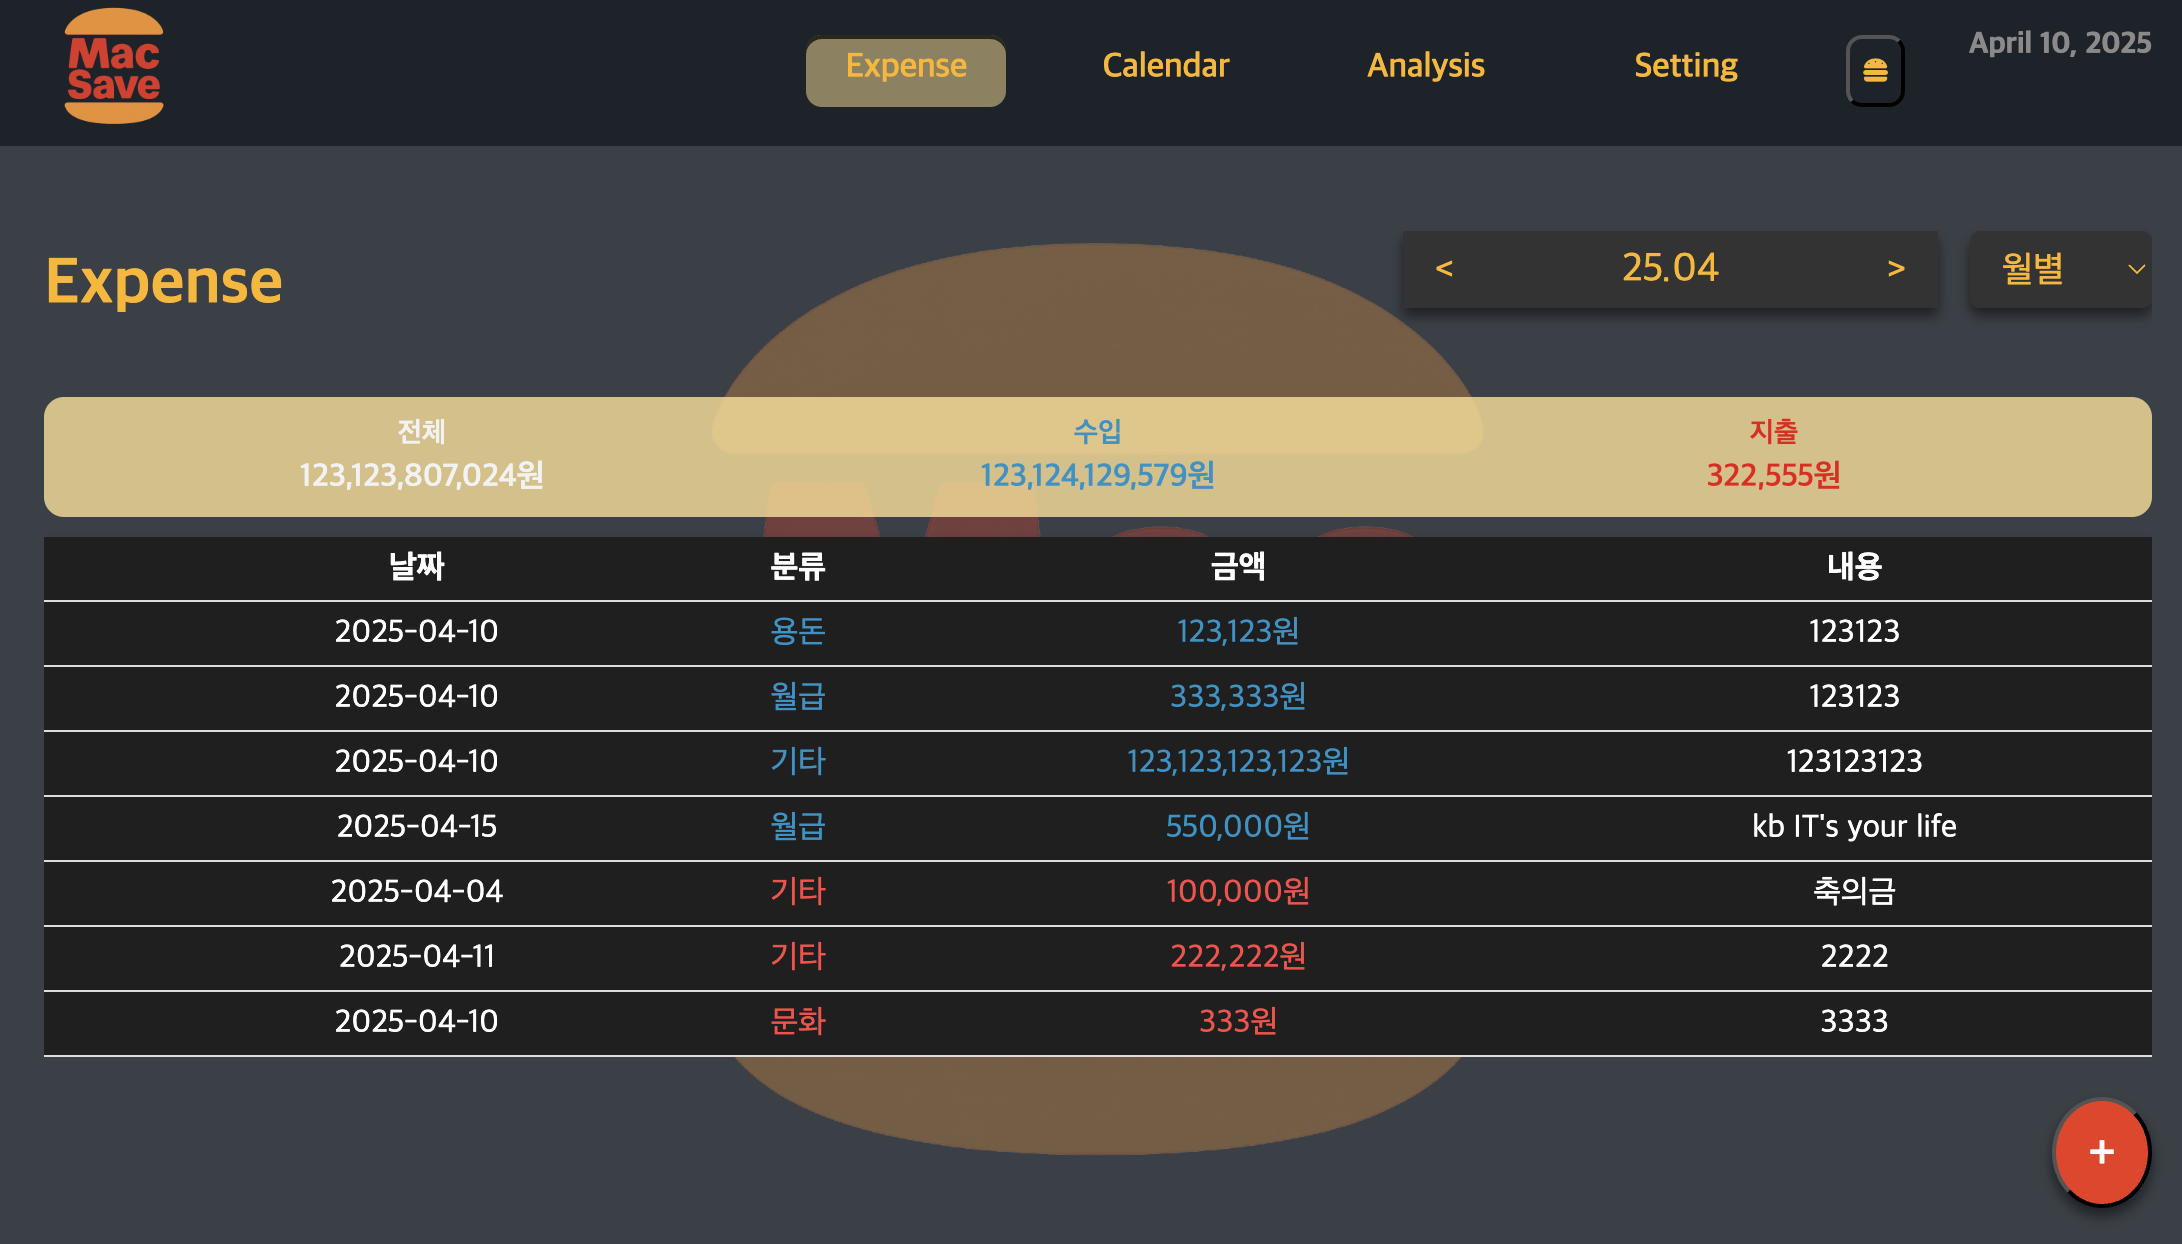
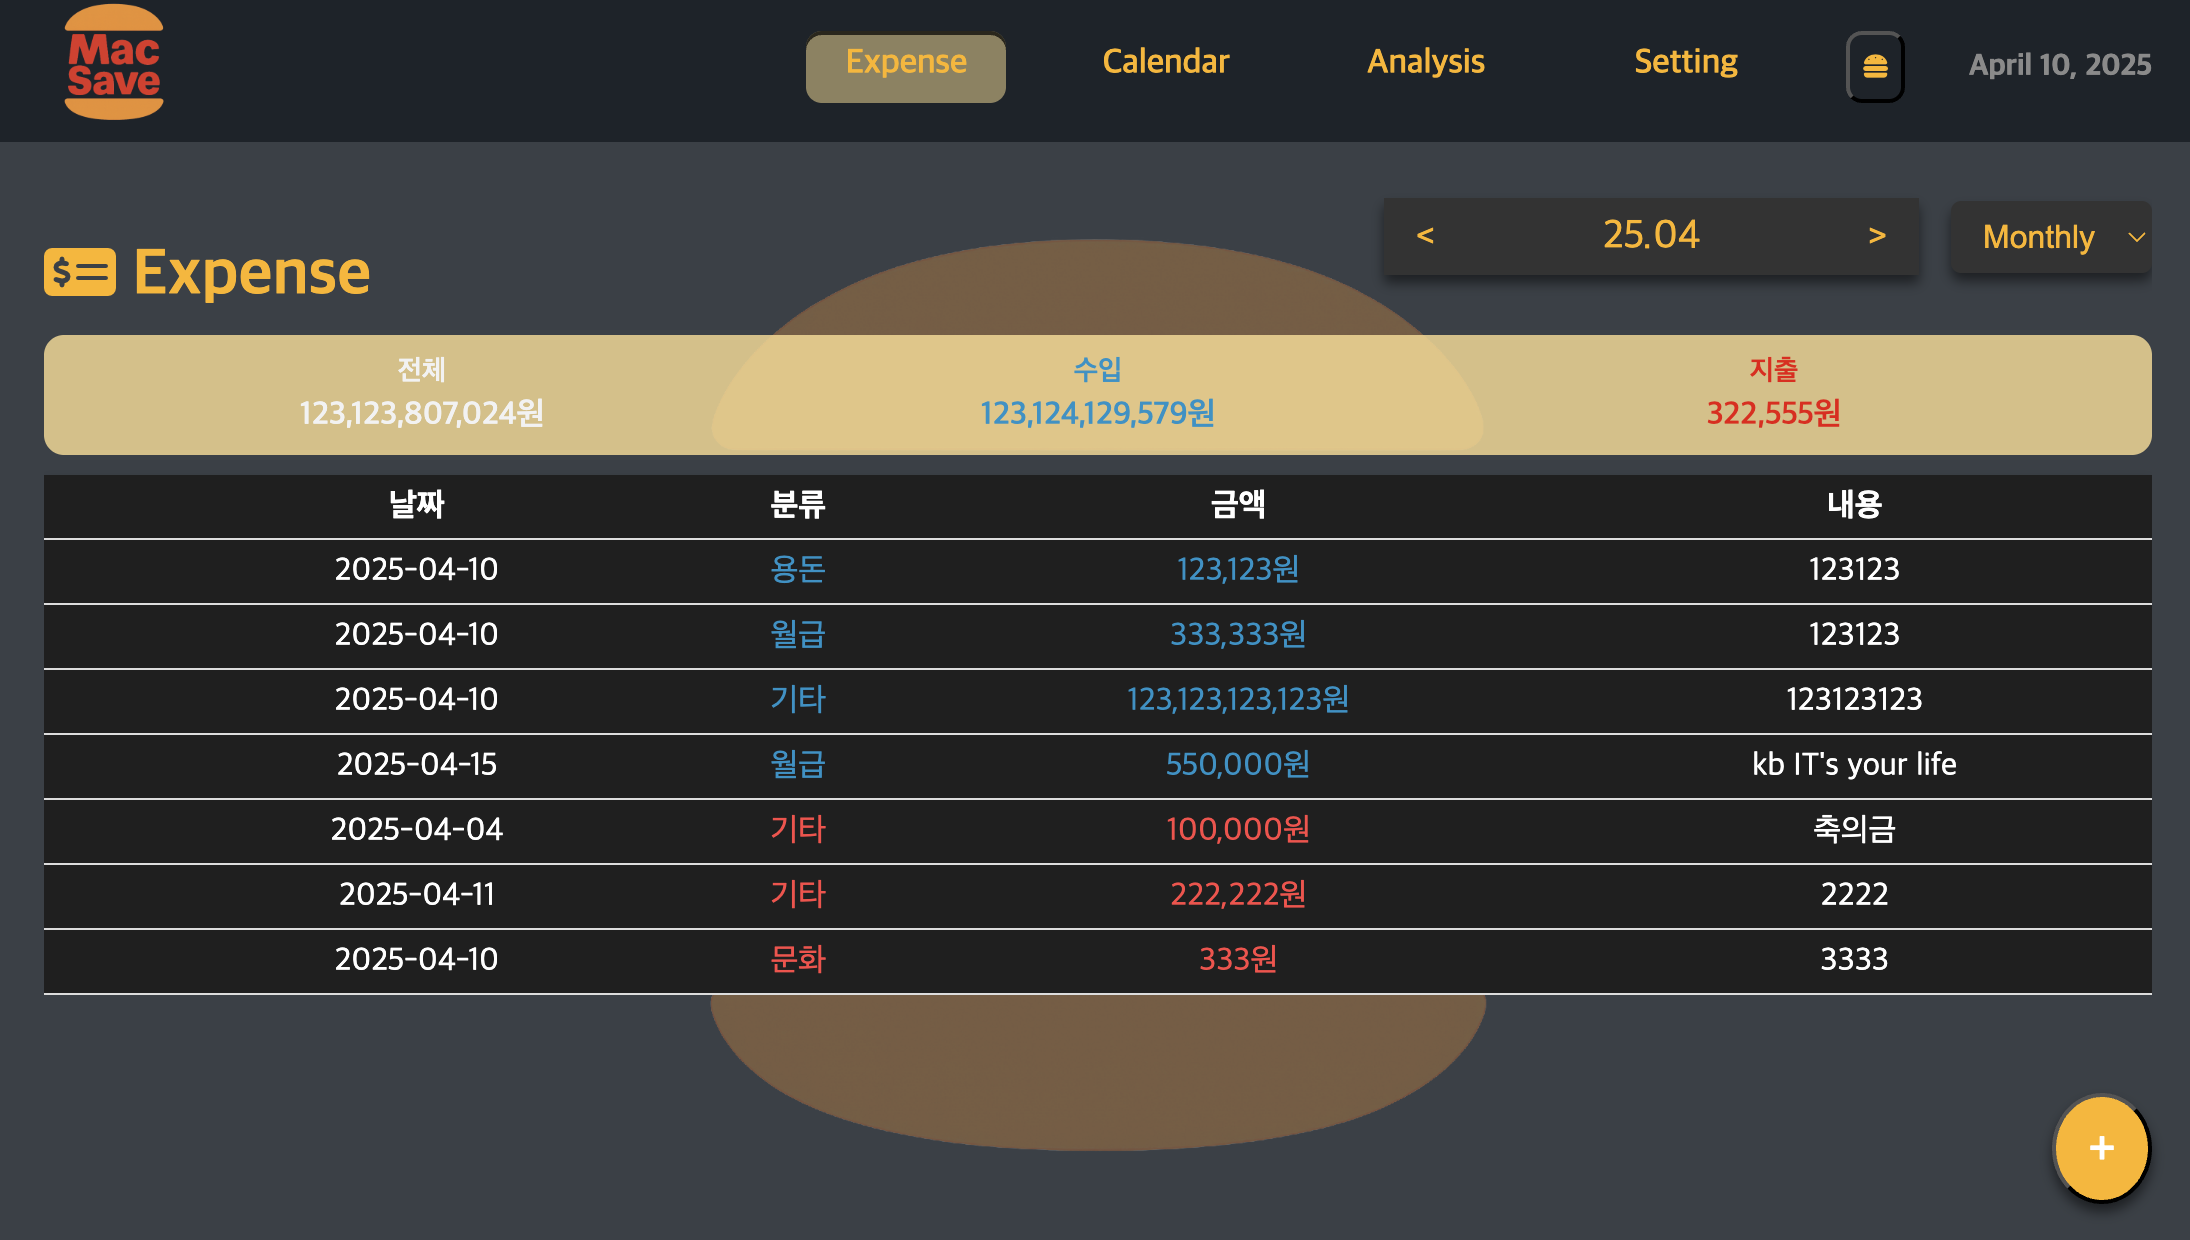
docs: readm 파일 및 css 수정

diff --git a/src/pages/history/HistoryPage.vue b/src/pages/history/HistoryPage.vue
@@ -14,9 +14,9 @@
             <button @click="nextPeriod" style="color: #ffb400">&gt;</button>
           </div>
           <select v-model="filterMode" class="filter-select">
-            <option value="month">월별</option>
-            <option value="week">주별</option>
-            <option value="year">연도별</option>
+            <option value="month">Monthly</option>
+            <option value="week">Weekly</option>
+            <option value="year">Yearly</option>
           </select>
         </div>
       </div>
@@ -405,7 +405,7 @@ onMounted(refreshData)
 
 .filter-select {
   color: #ffb400;
-  font-size: 18px;
+  font-size: 16px;
   padding: 8px 12px;
   margin-left: auto;
   border-radius: 5px;

diff --git a/src/pages/history/FloatingButton.vue b/src/pages/history/FloatingButton.vue
@@ -14,7 +14,7 @@ const onClick = () => emit('click')
   position: fixed;
   bottom: 24px;
   right: 24px;
-  background-color: #EE361A;
+  background-color: #ffb400;
   color: white;
   padding: 12px 16px;
   border-radius: 50%;

diff --git a/README.md b/README.md
@@ -100,7 +100,7 @@ src/
 
 ### 1. 초기화면
 
-![MacSave 초기화면](./public/readme/lock.png)
+![MacSave 초기화면](./public/readme/Lock.png)
 
 MacSave 가계부의 초기화면입니다.
 비밀번호를 설정하고 입력하면 가계부화면으로 넘어갑니다.
@@ -109,12 +109,27 @@ MacSave 가계부의 초기화면입니다.
 
 ### 2. Expense (소비/지출 내역)
 
-![MacSave 초기화면](./public/readme/expense.png)
+![MacSave 소비/지출 내역](./public/readme/Expense.png)
 
 MacSave 가계부의 소비/지출 내역입니다.
 db.json에 저장된 내용을 불러와 지출/소비 내역을 출력합니다.
 + 주요기능
   +  필터기능을 활용하여 주/월/연별로 조회가 가능합니다.
-  +  +버튼을 클릭하여 실시간으로 소비/지출 내역 추가가 가능합니다.
-  +  
+  +  `+` 버튼을 클릭하여 실시간으로 소비/지출 내역 추가가 가능합니다.
+  +  내역 클릭시 상세내역 영수증을 확인 할 수 있습니다.
+  +  상세내역 영수증에서 삭제/수정 버튼을 통해 내역 삭제/수정 가능합니다.
 
+### 3. Calendar (달력형식 내역)
+
+![MacSave 달력형식 내역](./public/readme/Calendar.png)
+
+MacSave 가계부의 달력형식 내역입니다.
+캘린더형식의 디자인을 통해 요약된 일별 소비/지출 내역을 확인 가능합니다.
+
+### 4. Analysis (월별 통계 햄버거 그래프)
+
+![MacSave 햄버거 통계](./public/readme/Analysis.png)
+
+햄버거형태의 소비내역 요약 그래프입니다.
+카테고리별 소비금액을 바탕으로 카테고리별 패티의 크기가 변경됩니다.
+카테고리별 지출/수입 영수증이 출력되며,
